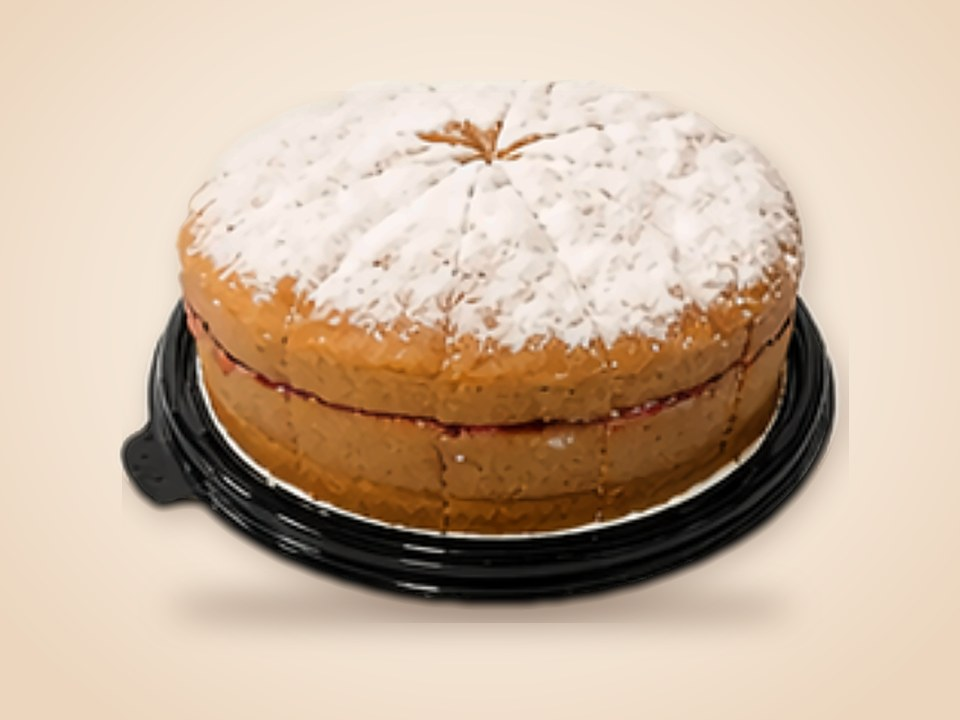
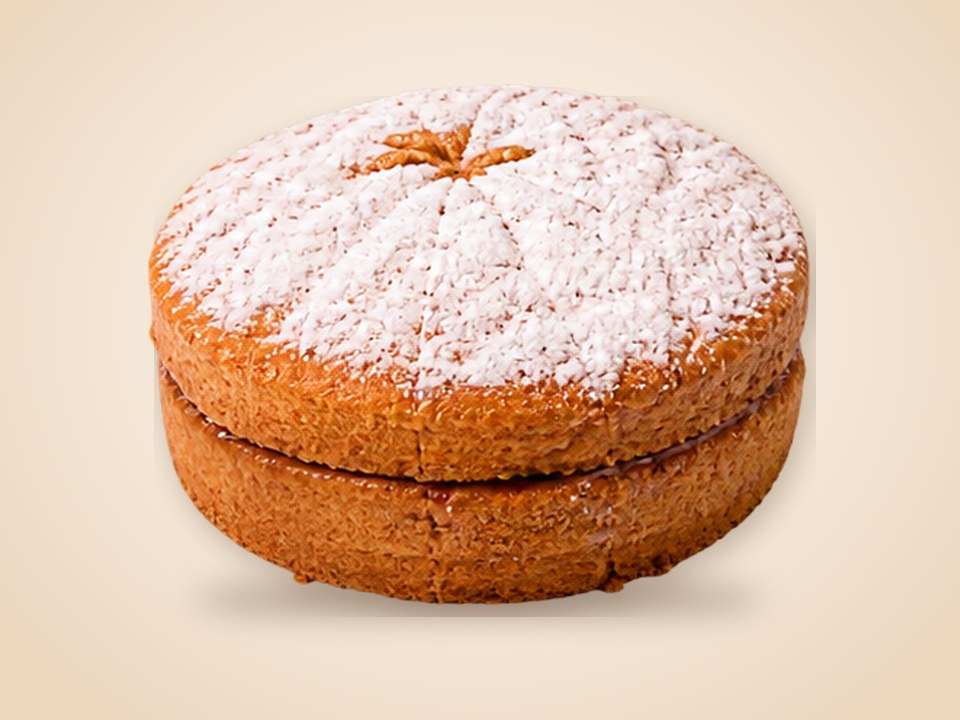
Restaura fotos de Tortas mini; nuevas fotos en Tortas especiales
Claude-Session: https://claude.ai/code/session_01CXgPpzeanZSn7nNy7uupPz

diff --git a/index.html b/index.html
@@ -110,7 +110,7 @@ a{color:#9A4A0E}a:hover{color:#3A2216}
 <button type="button" aria-label="Ver siguientes" data-act="next" class="bj-arrow" style="width: 56px; height: 56px; border-radius: 999px; border: 2px solid #3A2216; background: #3A2216; color: #F5E6D3; display: flex; align-items: center; justify-content: center; cursor: pointer"><svg aria-hidden="true" width="22" height="22" viewBox="0 0 24 24" fill="none" stroke="currentColor" stroke-width="2.4" stroke-linecap="round" stroke-linejoin="round"><path d="M9 6l6 6-6 6"></path></svg></button>
 </div>
 </div>
-<div data-track="1" class="bj-track" style="display: flex; gap: 20px; overflow-x: auto; scroll-snap-type: x mandatory; scroll-padding: 0; box-sizing: content-box; max-width: 2080px; margin: 0 auto; padding: 36px clamp(20px, 4vw, 56px) 8px; scroll-padding-left: clamp(20px, 4vw, 56px)"><article class="bj-card" tabindex="0" style="flex: 0 0 clamp(250px, 16vw, 340px); scroll-snap-align: start; box-sizing: border-box; padding: 12px 12px 18px; border-radius: 24px; background: #FFF8EF; border: 1.5px solid #E3C9AC; display: flex; flex-direction: column; gap: 12px"><img class="bj-cardcat" src="assets/catface.png" alt="" aria-hidden="true"><img src="assets/esp-amapola.jpg" alt="Torta de Amapola" style="display: block; width: 100%; aspect-ratio: 4 / 3; object-fit: cover; border-radius: 16px; background: #F3E2CF"><div style="display: flex; flex-direction: column; gap: 8px; padding: 0 6px"><h3 style="margin: 0; font-family: Fredoka, sans-serif; font-weight: 600; font-size: 20px; line-height: 1.15; color: #3A2216">Torta de Amapola</h3><div style="display: flex; flex-wrap: wrap; gap: 6px"><span style="display: inline-block; padding: 5px 12px; border-radius: 999px; border: 1.5px solid #E8701A; color: #9A4A0E; font-size: 13px; font-weight: 700">14 porciones</span></div></div></article><article class="bj-card" tabindex="0" style="flex: 0 0 clamp(250px, 16vw, 340px); scroll-snap-align: start; box-sizing: border-box; padding: 12px 12px 18px; border-radius: 24px; background: #FFF8EF; border: 1.5px solid #E3C9AC; display: flex; flex-direction: column; gap: 12px"><img class="bj-cardcat" src="assets/catface.png" alt="" aria-hidden="true"><img src="assets/esp-arandanos.jpg" alt="Torta de Arándanos" style="display: block; width: 100%; aspect-ratio: 4 / 3; object-fit: cover; border-radius: 16px; background: #F3E2CF"><div style="display: flex; flex-direction: column; gap: 8px; padding: 0 6px"><h3 style="margin: 0; font-family: Fredoka, sans-serif; font-weight: 600; font-size: 20px; line-height: 1.15; color: #3A2216">Torta de Arándanos</h3><div style="display: flex; flex-wrap: wrap; gap: 6px"><span style="display: inline-block; padding: 5px 12px; border-radius: 999px; border: 1.5px solid #E8701A; color: #9A4A0E; font-size: 13px; font-weight: 700">14 porciones</span></div></div></article><article class="bj-card" tabindex="0" style="flex: 0 0 clamp(250px, 16vw, 340px); scroll-snap-align: start; box-sizing: border-box; padding: 12px 12px 18px; border-radius: 24px; background: #FFF8EF; border: 1.5px solid #E3C9AC; display: flex; flex-direction: column; gap: 12px"><img class="bj-cardcat" src="assets/catface.png" alt="" aria-hidden="true"><img src="assets/esp-marialuisa.jpg" alt="Torta María Luisa" style="display: block; width: 100%; aspect-ratio: 4 / 3; object-fit: cover; border-radius: 16px; background: #F3E2CF"><div style="display: flex; flex-direction: column; gap: 8px; padding: 0 6px"><h3 style="margin: 0; font-family: Fredoka, sans-serif; font-weight: 600; font-size: 20px; line-height: 1.15; color: #3A2216">Torta María Luisa</h3><div style="display: flex; flex-wrap: wrap; gap: 6px"><span style="display: inline-block; padding: 5px 12px; border-radius: 999px; border: 1.5px solid #E8701A; color: #9A4A0E; font-size: 13px; font-weight: 700">14 porciones</span></div></div></article><article class="bj-card" tabindex="0" style="flex: 0 0 clamp(250px, 16vw, 340px); scroll-snap-align: start; box-sizing: border-box; padding: 12px 12px 18px; border-radius: 24px; background: #FFF8EF; border: 1.5px solid #E3C9AC; display: flex; flex-direction: column; gap: 12px"><img class="bj-cardcat" src="assets/catface.png" alt="" aria-hidden="true"><img src="assets/esp-chocolate.jpg" alt="Torta de Chocolate" style="display: block; width: 100%; aspect-ratio: 4 / 3; object-fit: cover; border-radius: 16px; background: #F3E2CF"><div style="display: flex; flex-direction: column; gap: 8px; padding: 0 6px"><h3 style="margin: 0; font-family: Fredoka, sans-serif; font-weight: 600; font-size: 20px; line-height: 1.15; color: #3A2216">Torta de Chocolate</h3><div style="display: flex; flex-wrap: wrap; gap: 6px"><span style="display: inline-block; padding: 5px 12px; border-radius: 999px; border: 1.5px solid #E8701A; color: #9A4A0E; font-size: 13px; font-weight: 700">14 porciones</span></div></div></article><article class="bj-card" tabindex="0" style="flex: 0 0 clamp(250px, 16vw, 340px); scroll-snap-align: start; box-sizing: border-box; padding: 12px 12px 18px; border-radius: 24px; background: #FFF8EF; border: 1.5px solid #E3C9AC; display: flex; flex-direction: column; gap: 12px"><img class="bj-cardcat" src="assets/catface.png" alt="" aria-hidden="true"><img src="assets/esp-redvelvet.jpg" alt="Torta Red Velvet" style="display: block; width: 100%; aspect-ratio: 4 / 3; object-fit: cover; border-radius: 16px; background: #F3E2CF"><div style="display: flex; flex-direction: column; gap: 8px; padding: 0 6px"><h3 style="margin: 0; font-family: Fredoka, sans-serif; font-weight: 600; font-size: 20px; line-height: 1.15; color: #3A2216">Torta Red Velvet</h3><div style="display: flex; flex-wrap: wrap; gap: 6px"><span style="display: inline-block; padding: 5px 12px; border-radius: 999px; border: 1.5px solid #E8701A; color: #9A4A0E; font-size: 13px; font-weight: 700">14 porciones</span></div></div></article><article class="bj-card" tabindex="0" style="flex: 0 0 clamp(250px, 16vw, 340px); scroll-snap-align: start; box-sizing: border-box; padding: 12px 12px 18px; border-radius: 24px; background: #FFF8EF; border: 1.5px solid #E3C9AC; display: flex; flex-direction: column; gap: 12px"><img class="bj-cardcat" src="assets/catface.png" alt="" aria-hidden="true"><img src="assets/esp-zanahoria.jpg" alt="Torta de Zanahoria, almendra y nuez" style="display: block; width: 100%; aspect-ratio: 4 / 3; object-fit: cover; border-radius: 16px; background: #F3E2CF"><div style="display: flex; flex-direction: column; gap: 8px; padding: 0 6px"><h3 style="margin: 0; font-family: Fredoka, sans-serif; font-weight: 600; font-size: 20px; line-height: 1.15; color: #3A2216">Torta de Zanahoria, almendra y nuez</h3><div style="display: flex; flex-wrap: wrap; gap: 6px"><span style="display: inline-block; padding: 5px 12px; border-radius: 999px; border: 1.5px solid #E8701A; color: #9A4A0E; font-size: 13px; font-weight: 700">14 porciones</span></div></div></article><article class="bj-card" tabindex="0" style="flex: 0 0 clamp(250px, 16vw, 340px); scroll-snap-align: start; box-sizing: border-box; padding: 12px 12px 18px; border-radius: 24px; background: #FFF8EF; border: 1.5px solid #E3C9AC; display: flex; flex-direction: column; gap: 12px"><img class="bj-cardcat" src="assets/catface.png" alt="" aria-hidden="true"><img src="assets/esp-espinaca.jpg" alt="Torta de Espinaca" style="display: block; width: 100%; aspect-ratio: 4 / 3; object-fit: cover; border-radius: 16px; background: #F3E2CF"><div style="display: flex; flex-direction: column; gap: 8px; padding: 0 6px"><h3 style="margin: 0; font-family: Fredoka, sans-serif; font-weight: 600; font-size: 20px; line-height: 1.15; color: #3A2216">Torta de Espinaca</h3><div style="display: flex; flex-wrap: wrap; gap: 6px"><span style="display: inline-block; padding: 5px 12px; border-radius: 999px; border: 1.5px solid #E8701A; color: #9A4A0E; font-size: 13px; font-weight: 700">14 porciones</span></div></div></article><article class="bj-card" tabindex="0" style="flex: 0 0 clamp(250px, 16vw, 340px); scroll-snap-align: start; box-sizing: border-box; padding: 12px 12px 18px; border-radius: 24px; background: #FFF8EF; border: 1.5px solid #E3C9AC; display: flex; flex-direction: column; gap: 12px"><img class="bj-cardcat" src="assets/catface.png" alt="" aria-hidden="true"><img src="assets/esp-avena.jpg" alt="Torta de Avena con Banano" style="display: block; width: 100%; aspect-ratio: 4 / 3; object-fit: cover; border-radius: 16px; background: #F3E2CF"><div style="display: flex; flex-direction: column; gap: 8px; padding: 0 6px"><h3 style="margin: 0; font-family: Fredoka, sans-serif; font-weight: 600; font-size: 20px; line-height: 1.15; color: #3A2216">Torta de Avena con Banano</h3><div style="display: flex; flex-wrap: wrap; gap: 6px"><span style="display: inline-block; padding: 5px 12px; border-radius: 999px; border: 1.5px solid #E8701A; color: #9A4A0E; font-size: 13px; font-weight: 700">14 porciones</span></div></div></article><article class="bj-card" tabindex="0" style="flex: 0 0 clamp(250px, 16vw, 340px); scroll-snap-align: start; box-sizing: border-box; padding: 12px 12px 18px; border-radius: 24px; background: #FFF8EF; border: 1.5px solid #E3C9AC; display: flex; flex-direction: column; gap: 12px"><img class="bj-cardcat" src="assets/catface.png" alt="" aria-hidden="true"><img src="assets/esp-vino.jpg" alt="Torta de Vino con Frutas" style="display: block; width: 100%; aspect-ratio: 4 / 3; object-fit: cover; border-radius: 16px; background: #F3E2CF"><div style="display: flex; flex-direction: column; gap: 8px; padding: 0 6px"><h3 style="margin: 0; font-family: Fredoka, sans-serif; font-weight: 600; font-size: 20px; line-height: 1.15; color: #3A2216">Torta de Vino con Frutas</h3></div></article><article class="bj-card" tabindex="0" style="flex: 0 0 clamp(250px, 16vw, 340px); scroll-snap-align: start; box-sizing: border-box; padding: 12px 12px 18px; border-radius: 24px; background: #FFF8EF; border: 1.5px solid #E3C9AC; display: flex; flex-direction: column; gap: 12px"><img class="bj-cardcat" src="assets/catface.png" alt="" aria-hidden="true"><img src="assets/esp-almojabana.jpg" alt="Torta de Almojábana y Bocadillo" style="display: block; width: 100%; aspect-ratio: 4 / 3; object-fit: cover; border-radius: 16px; background: #F3E2CF"><div style="display: flex; flex-direction: column; gap: 8px; padding: 0 6px"><h3 style="margin: 0; font-family: Fredoka, sans-serif; font-weight: 600; font-size: 20px; line-height: 1.15; color: #3A2216">Torta de Almojábana y Bocadillo</h3><div style="display: flex; flex-wrap: wrap; gap: 6px"><span style="display: inline-block; padding: 5px 12px; border-radius: 999px; border: 1.5px solid #E8701A; color: #9A4A0E; font-size: 13px; font-weight: 700">12 porciones</span></div></div></article><article class="bj-card" tabindex="0" style="flex: 0 0 clamp(250px, 16vw, 340px); scroll-snap-align: start; box-sizing: border-box; padding: 12px 12px 18px; border-radius: 24px; background: #FFF8EF; border: 1.5px solid #E3C9AC; display: flex; flex-direction: column; gap: 12px"><img class="bj-cardcat" src="assets/catface.png" alt="" aria-hidden="true"><img src="assets/pie-pina.jpg" alt="Pie de Piña" style="display: block; width: 100%; aspect-ratio: 4 / 3; object-fit: cover; border-radius: 16px; background: #F3E2CF"><div style="display: flex; flex-direction: column; gap: 8px; padding: 0 6px"><h3 style="margin: 0; font-family: Fredoka, sans-serif; font-weight: 600; font-size: 20px; line-height: 1.15; color: #3A2216">Pie de Piña</h3><div style="display: flex; flex-wrap: wrap; gap: 6px"><span style="display: inline-block; padding: 5px 12px; border-radius: 999px; border: 1.5px solid #E8701A; color: #9A4A0E; font-size: 13px; font-weight: 700">12 porciones</span></div></div></article><article class="bj-card" tabindex="0" style="flex: 0 0 clamp(250px, 16vw, 340px); scroll-snap-align: start; box-sizing: border-box; padding: 12px 12px 18px; border-radius: 24px; background: #FFF8EF; border: 1.5px solid #E3C9AC; display: flex; flex-direction: column; gap: 12px"><img class="bj-cardcat" src="assets/catface.png" alt="" aria-hidden="true"><img src="assets/pie-durazno.jpg" alt="Pie de Durazno" style="display: block; width: 100%; aspect-ratio: 4 / 3; object-fit: cover; border-radius: 16px; background: #F3E2CF"><div style="display: flex; flex-direction: column; gap: 8px; padding: 0 6px"><h3 style="margin: 0; font-family: Fredoka, sans-serif; font-weight: 600; font-size: 20px; line-height: 1.15; color: #3A2216">Pie de Durazno</h3><div style="display: flex; flex-wrap: wrap; gap: 6px"><span style="display: inline-block; padding: 5px 12px; border-radius: 999px; border: 1.5px solid #E8701A; color: #9A4A0E; font-size: 13px; font-weight: 700">12 porciones</span></div></div></article><article class="bj-card" tabindex="0" style="flex: 0 0 clamp(250px, 16vw, 340px); scroll-snap-align: start; box-sizing: border-box; padding: 12px 12px 18px; border-radius: 24px; background: #FFF8EF; border: 1.5px solid #E3C9AC; display: flex; flex-direction: column; gap: 12px"><img class="bj-cardcat" src="assets/catface.png" alt="" aria-hidden="true"><img src="assets/esp-pistacho.jpg" alt="Torta especial de Pistacho" style="display: block; width: 100%; aspect-ratio: 4 / 3; object-fit: cover; border-radius: 16px; background: #F3E2CF"><div style="display: flex; flex-direction: column; gap: 8px; padding: 0 6px"><h3 style="margin: 0; font-family: Fredoka, sans-serif; font-weight: 600; font-size: 20px; line-height: 1.15; color: #3A2216">Torta especial de Pistacho</h3></div></article><article class="bj-card" tabindex="0" style="flex: 0 0 clamp(250px, 16vw, 340px); scroll-snap-align: start; box-sizing: border-box; padding: 12px 12px 18px; border-radius: 24px; background: #FFF8EF; border: 1.5px solid #E3C9AC; display: flex; flex-direction: column; gap: 12px"><img class="bj-cardcat" src="assets/catface.png" alt="" aria-hidden="true"><img src="assets/esp-chocolate-especial.jpg" alt="Torta especial de Chocolate" style="display: block; width: 100%; aspect-ratio: 4 / 3; object-fit: cover; border-radius: 16px; background: #F3E2CF"><div style="display: flex; flex-direction: column; gap: 8px; padding: 0 6px"><h3 style="margin: 0; font-family: Fredoka, sans-serif; font-weight: 600; font-size: 20px; line-height: 1.15; color: #3A2216">Torta especial de Chocolate</h3></div></article><article class="bj-card" tabindex="0" style="flex: 0 0 clamp(250px, 16vw, 340px); scroll-snap-align: start; box-sizing: border-box; padding: 12px 12px 18px; border-radius: 24px; background: #FFF8EF; border: 1.5px solid #E3C9AC; display: flex; flex-direction: column; gap: 12px"><img class="bj-cardcat" src="assets/catface.png" alt="" aria-hidden="true"><img src="assets/choco-maracuya.jpg" alt="Torta especial de Chocolate con postre de Maracuyá" style="display: block; width: 100%; aspect-ratio: 4 / 3; object-fit: cover; border-radius: 16px; background: #F3E2CF"><div style="display: flex; flex-direction: column; gap: 8px; padding: 0 6px"><h3 style="margin: 0; font-family: Fredoka, sans-serif; font-weight: 600; font-size: 20px; line-height: 1.15; color: #3A2216">Torta especial de Chocolate con postre de Maracuyá</h3></div></article><article class="bj-card" tabindex="0" style="flex: 0 0 clamp(250px, 16vw, 340px); scroll-snap-align: start; box-sizing: border-box; padding: 12px 12px 18px; border-radius: 24px; background: #FFF8EF; border: 1.5px solid #E3C9AC; display: flex; flex-direction: column; gap: 12px"><img class="bj-cardcat" src="assets/catface.png" alt="" aria-hidden="true"><img src="assets/choco-frutos.jpg" alt="Torta especial de Chocolate con postre de Frutos rojos" style="display: block; width: 100%; aspect-ratio: 4 / 3; object-fit: cover; border-radius: 16px; background: #F3E2CF"><div style="display: flex; flex-direction: column; gap: 8px; padding: 0 6px"><h3 style="margin: 0; font-family: Fredoka, sans-serif; font-weight: 600; font-size: 20px; line-height: 1.15; color: #3A2216">Torta especial de Chocolate con postre de Frutos rojos</h3></div></article><article class="bj-card" tabindex="0" style="flex: 0 0 clamp(250px, 16vw, 340px); scroll-snap-align: start; box-sizing: border-box; padding: 12px 12px 18px; border-radius: 24px; background: #FFF8EF; border: 1.5px solid #E3C9AC; display: flex; flex-direction: column; gap: 12px"><img class="bj-cardcat" src="assets/catface.png" alt="" aria-hidden="true"><div style="width: 100%; aspect-ratio: 4 / 3; border-radius: 16px; background: repeating-linear-gradient(90deg, #F6E7D4 0 18px, #EFD9BF 18px 36px); display: flex; flex-direction: column; align-items: center; justify-content: center; gap: 8px"><img src="assets/logo.png" alt="" style="width: 92px; opacity: 0.55"><span style="font-size: 13px; font-weight: 700; color: #6B4430; letter-spacing: 0.04em; text-transform: uppercase">Foto próximamente</span></div><div style="display: flex; flex-direction: column; gap: 8px; padding: 0 6px"><h3 style="margin: 0; font-family: Fredoka, sans-serif; font-weight: 600; font-size: 20px; line-height: 1.15; color: #3A2216">Torta especial de Café</h3></div></article></div>
+<div data-track="1" class="bj-track" style="display: flex; gap: 20px; overflow-x: auto; scroll-snap-type: x mandatory; scroll-padding: 0; box-sizing: content-box; max-width: 2080px; margin: 0 auto; padding: 36px clamp(20px, 4vw, 56px) 8px; scroll-padding-left: clamp(20px, 4vw, 56px)"><article class="bj-card" tabindex="0" style="flex: 0 0 clamp(250px, 16vw, 340px); scroll-snap-align: start; box-sizing: border-box; padding: 12px 12px 18px; border-radius: 24px; background: #FFF8EF; border: 1.5px solid #E3C9AC; display: flex; flex-direction: column; gap: 12px"><img class="bj-cardcat" src="assets/catface.png" alt="" aria-hidden="true"><img src="assets/esp-amapola.jpg" alt="Torta de Amapola" style="display: block; width: 100%; aspect-ratio: 4 / 3; object-fit: cover; border-radius: 16px; background: #F3E2CF"><div style="display: flex; flex-direction: column; gap: 8px; padding: 0 6px"><h3 style="margin: 0; font-family: Fredoka, sans-serif; font-weight: 600; font-size: 20px; line-height: 1.15; color: #3A2216">Torta de Amapola</h3><div style="display: flex; flex-wrap: wrap; gap: 6px"><span style="display: inline-block; padding: 5px 12px; border-radius: 999px; border: 1.5px solid #E8701A; color: #9A4A0E; font-size: 13px; font-weight: 700">14 porciones</span></div></div></article><article class="bj-card" tabindex="0" style="flex: 0 0 clamp(250px, 16vw, 340px); scroll-snap-align: start; box-sizing: border-box; padding: 12px 12px 18px; border-radius: 24px; background: #FFF8EF; border: 1.5px solid #E3C9AC; display: flex; flex-direction: column; gap: 12px"><img class="bj-cardcat" src="assets/catface.png" alt="" aria-hidden="true"><img src="assets/esp-arandanos.jpg" alt="Torta de Arándanos" style="display: block; width: 100%; aspect-ratio: 4 / 3; object-fit: cover; border-radius: 16px; background: #F3E2CF"><div style="display: flex; flex-direction: column; gap: 8px; padding: 0 6px"><h3 style="margin: 0; font-family: Fredoka, sans-serif; font-weight: 600; font-size: 20px; line-height: 1.15; color: #3A2216">Torta de Arándanos</h3><div style="display: flex; flex-wrap: wrap; gap: 6px"><span style="display: inline-block; padding: 5px 12px; border-radius: 999px; border: 1.5px solid #E8701A; color: #9A4A0E; font-size: 13px; font-weight: 700">14 porciones</span></div></div></article><article class="bj-card" tabindex="0" style="flex: 0 0 clamp(250px, 16vw, 340px); scroll-snap-align: start; box-sizing: border-box; padding: 12px 12px 18px; border-radius: 24px; background: #FFF8EF; border: 1.5px solid #E3C9AC; display: flex; flex-direction: column; gap: 12px"><img class="bj-cardcat" src="assets/catface.png" alt="" aria-hidden="true"><img src="assets/esp-marialuisa.jpg" alt="Torta María Luisa" style="display: block; width: 100%; aspect-ratio: 4 / 3; object-fit: cover; border-radius: 16px; background: #F3E2CF"><div style="display: flex; flex-direction: column; gap: 8px; padding: 0 6px"><h3 style="margin: 0; font-family: Fredoka, sans-serif; font-weight: 600; font-size: 20px; line-height: 1.15; color: #3A2216">Torta María Luisa</h3><div style="display: flex; flex-wrap: wrap; gap: 6px"><span style="display: inline-block; padding: 5px 12px; border-radius: 999px; border: 1.5px solid #E8701A; color: #9A4A0E; font-size: 13px; font-weight: 700">14 porciones</span></div></div></article><article class="bj-card" tabindex="0" style="flex: 0 0 clamp(250px, 16vw, 340px); scroll-snap-align: start; box-sizing: border-box; padding: 12px 12px 18px; border-radius: 24px; background: #FFF8EF; border: 1.5px solid #E3C9AC; display: flex; flex-direction: column; gap: 12px"><img class="bj-cardcat" src="assets/catface.png" alt="" aria-hidden="true"><img src="assets/esp-chocolate-t.jpg" alt="Torta de Chocolate" style="display: block; width: 100%; aspect-ratio: 4 / 3; object-fit: cover; border-radius: 16px; background: #F3E2CF"><div style="display: flex; flex-direction: column; gap: 8px; padding: 0 6px"><h3 style="margin: 0; font-family: Fredoka, sans-serif; font-weight: 600; font-size: 20px; line-height: 1.15; color: #3A2216">Torta de Chocolate</h3><div style="display: flex; flex-wrap: wrap; gap: 6px"><span style="display: inline-block; padding: 5px 12px; border-radius: 999px; border: 1.5px solid #E8701A; color: #9A4A0E; font-size: 13px; font-weight: 700">14 porciones</span></div></div></article><article class="bj-card" tabindex="0" style="flex: 0 0 clamp(250px, 16vw, 340px); scroll-snap-align: start; box-sizing: border-box; padding: 12px 12px 18px; border-radius: 24px; background: #FFF8EF; border: 1.5px solid #E3C9AC; display: flex; flex-direction: column; gap: 12px"><img class="bj-cardcat" src="assets/catface.png" alt="" aria-hidden="true"><img src="assets/esp-redvelvet.jpg" alt="Torta Red Velvet" style="display: block; width: 100%; aspect-ratio: 4 / 3; object-fit: cover; border-radius: 16px; background: #F3E2CF"><div style="display: flex; flex-direction: column; gap: 8px; padding: 0 6px"><h3 style="margin: 0; font-family: Fredoka, sans-serif; font-weight: 600; font-size: 20px; line-height: 1.15; color: #3A2216">Torta Red Velvet</h3><div style="display: flex; flex-wrap: wrap; gap: 6px"><span style="display: inline-block; padding: 5px 12px; border-radius: 999px; border: 1.5px solid #E8701A; color: #9A4A0E; font-size: 13px; font-weight: 700">14 porciones</span></div></div></article><article class="bj-card" tabindex="0" style="flex: 0 0 clamp(250px, 16vw, 340px); scroll-snap-align: start; box-sizing: border-box; padding: 12px 12px 18px; border-radius: 24px; background: #FFF8EF; border: 1.5px solid #E3C9AC; display: flex; flex-direction: column; gap: 12px"><img class="bj-cardcat" src="assets/catface.png" alt="" aria-hidden="true"><img src="assets/esp-zanahoria.jpg" alt="Torta de Zanahoria, almendra y nuez" style="display: block; width: 100%; aspect-ratio: 4 / 3; object-fit: cover; border-radius: 16px; background: #F3E2CF"><div style="display: flex; flex-direction: column; gap: 8px; padding: 0 6px"><h3 style="margin: 0; font-family: Fredoka, sans-serif; font-weight: 600; font-size: 20px; line-height: 1.15; color: #3A2216">Torta de Zanahoria, almendra y nuez</h3><div style="display: flex; flex-wrap: wrap; gap: 6px"><span style="display: inline-block; padding: 5px 12px; border-radius: 999px; border: 1.5px solid #E8701A; color: #9A4A0E; font-size: 13px; font-weight: 700">14 porciones</span></div></div></article><article class="bj-card" tabindex="0" style="flex: 0 0 clamp(250px, 16vw, 340px); scroll-snap-align: start; box-sizing: border-box; padding: 12px 12px 18px; border-radius: 24px; background: #FFF8EF; border: 1.5px solid #E3C9AC; display: flex; flex-direction: column; gap: 12px"><img class="bj-cardcat" src="assets/catface.png" alt="" aria-hidden="true"><img src="assets/esp-espinaca.jpg" alt="Torta de Espinaca" style="display: block; width: 100%; aspect-ratio: 4 / 3; object-fit: cover; border-radius: 16px; background: #F3E2CF"><div style="display: flex; flex-direction: column; gap: 8px; padding: 0 6px"><h3 style="margin: 0; font-family: Fredoka, sans-serif; font-weight: 600; font-size: 20px; line-height: 1.15; color: #3A2216">Torta de Espinaca</h3><div style="display: flex; flex-wrap: wrap; gap: 6px"><span style="display: inline-block; padding: 5px 12px; border-radius: 999px; border: 1.5px solid #E8701A; color: #9A4A0E; font-size: 13px; font-weight: 700">14 porciones</span></div></div></article><article class="bj-card" tabindex="0" style="flex: 0 0 clamp(250px, 16vw, 340px); scroll-snap-align: start; box-sizing: border-box; padding: 12px 12px 18px; border-radius: 24px; background: #FFF8EF; border: 1.5px solid #E3C9AC; display: flex; flex-direction: column; gap: 12px"><img class="bj-cardcat" src="assets/catface.png" alt="" aria-hidden="true"><img src="assets/esp-avena.jpg" alt="Torta de Avena con Banano" style="display: block; width: 100%; aspect-ratio: 4 / 3; object-fit: cover; border-radius: 16px; background: #F3E2CF"><div style="display: flex; flex-direction: column; gap: 8px; padding: 0 6px"><h3 style="margin: 0; font-family: Fredoka, sans-serif; font-weight: 600; font-size: 20px; line-height: 1.15; color: #3A2216">Torta de Avena con Banano</h3><div style="display: flex; flex-wrap: wrap; gap: 6px"><span style="display: inline-block; padding: 5px 12px; border-radius: 999px; border: 1.5px solid #E8701A; color: #9A4A0E; font-size: 13px; font-weight: 700">14 porciones</span></div></div></article><article class="bj-card" tabindex="0" style="flex: 0 0 clamp(250px, 16vw, 340px); scroll-snap-align: start; box-sizing: border-box; padding: 12px 12px 18px; border-radius: 24px; background: #FFF8EF; border: 1.5px solid #E3C9AC; display: flex; flex-direction: column; gap: 12px"><img class="bj-cardcat" src="assets/catface.png" alt="" aria-hidden="true"><img src="assets/esp-vino.jpg" alt="Torta de Vino con Frutas" style="display: block; width: 100%; aspect-ratio: 4 / 3; object-fit: cover; border-radius: 16px; background: #F3E2CF"><div style="display: flex; flex-direction: column; gap: 8px; padding: 0 6px"><h3 style="margin: 0; font-family: Fredoka, sans-serif; font-weight: 600; font-size: 20px; line-height: 1.15; color: #3A2216">Torta de Vino con Frutas</h3></div></article><article class="bj-card" tabindex="0" style="flex: 0 0 clamp(250px, 16vw, 340px); scroll-snap-align: start; box-sizing: border-box; padding: 12px 12px 18px; border-radius: 24px; background: #FFF8EF; border: 1.5px solid #E3C9AC; display: flex; flex-direction: column; gap: 12px"><img class="bj-cardcat" src="assets/catface.png" alt="" aria-hidden="true"><img src="assets/esp-almojabana.jpg" alt="Torta de Almojábana y Bocadillo" style="display: block; width: 100%; aspect-ratio: 4 / 3; object-fit: cover; border-radius: 16px; background: #F3E2CF"><div style="display: flex; flex-direction: column; gap: 8px; padding: 0 6px"><h3 style="margin: 0; font-family: Fredoka, sans-serif; font-weight: 600; font-size: 20px; line-height: 1.15; color: #3A2216">Torta de Almojábana y Bocadillo</h3><div style="display: flex; flex-wrap: wrap; gap: 6px"><span style="display: inline-block; padding: 5px 12px; border-radius: 999px; border: 1.5px solid #E8701A; color: #9A4A0E; font-size: 13px; font-weight: 700">12 porciones</span></div></div></article><article class="bj-card" tabindex="0" style="flex: 0 0 clamp(250px, 16vw, 340px); scroll-snap-align: start; box-sizing: border-box; padding: 12px 12px 18px; border-radius: 24px; background: #FFF8EF; border: 1.5px solid #E3C9AC; display: flex; flex-direction: column; gap: 12px"><img class="bj-cardcat" src="assets/catface.png" alt="" aria-hidden="true"><img src="assets/pie-pina.jpg" alt="Pie de Piña" style="display: block; width: 100%; aspect-ratio: 4 / 3; object-fit: cover; border-radius: 16px; background: #F3E2CF"><div style="display: flex; flex-direction: column; gap: 8px; padding: 0 6px"><h3 style="margin: 0; font-family: Fredoka, sans-serif; font-weight: 600; font-size: 20px; line-height: 1.15; color: #3A2216">Pie de Piña</h3><div style="display: flex; flex-wrap: wrap; gap: 6px"><span style="display: inline-block; padding: 5px 12px; border-radius: 999px; border: 1.5px solid #E8701A; color: #9A4A0E; font-size: 13px; font-weight: 700">12 porciones</span></div></div></article><article class="bj-card" tabindex="0" style="flex: 0 0 clamp(250px, 16vw, 340px); scroll-snap-align: start; box-sizing: border-box; padding: 12px 12px 18px; border-radius: 24px; background: #FFF8EF; border: 1.5px solid #E3C9AC; display: flex; flex-direction: column; gap: 12px"><img class="bj-cardcat" src="assets/catface.png" alt="" aria-hidden="true"><img src="assets/pie-durazno.jpg" alt="Pie de Durazno" style="display: block; width: 100%; aspect-ratio: 4 / 3; object-fit: cover; border-radius: 16px; background: #F3E2CF"><div style="display: flex; flex-direction: column; gap: 8px; padding: 0 6px"><h3 style="margin: 0; font-family: Fredoka, sans-serif; font-weight: 600; font-size: 20px; line-height: 1.15; color: #3A2216">Pie de Durazno</h3><div style="display: flex; flex-wrap: wrap; gap: 6px"><span style="display: inline-block; padding: 5px 12px; border-radius: 999px; border: 1.5px solid #E8701A; color: #9A4A0E; font-size: 13px; font-weight: 700">12 porciones</span></div></div></article><article class="bj-card" tabindex="0" style="flex: 0 0 clamp(250px, 16vw, 340px); scroll-snap-align: start; box-sizing: border-box; padding: 12px 12px 18px; border-radius: 24px; background: #FFF8EF; border: 1.5px solid #E3C9AC; display: flex; flex-direction: column; gap: 12px"><img class="bj-cardcat" src="assets/catface.png" alt="" aria-hidden="true"><img src="assets/esp-pistacho.jpg" alt="Torta especial de Pistacho" style="display: block; width: 100%; aspect-ratio: 4 / 3; object-fit: cover; border-radius: 16px; background: #F3E2CF"><div style="display: flex; flex-direction: column; gap: 8px; padding: 0 6px"><h3 style="margin: 0; font-family: Fredoka, sans-serif; font-weight: 600; font-size: 20px; line-height: 1.15; color: #3A2216">Torta especial de Pistacho</h3></div></article><article class="bj-card" tabindex="0" style="flex: 0 0 clamp(250px, 16vw, 340px); scroll-snap-align: start; box-sizing: border-box; padding: 12px 12px 18px; border-radius: 24px; background: #FFF8EF; border: 1.5px solid #E3C9AC; display: flex; flex-direction: column; gap: 12px"><img class="bj-cardcat" src="assets/catface.png" alt="" aria-hidden="true"><img src="assets/esp-chocolate-especial.jpg" alt="Torta especial de Chocolate" style="display: block; width: 100%; aspect-ratio: 4 / 3; object-fit: cover; border-radius: 16px; background: #F3E2CF"><div style="display: flex; flex-direction: column; gap: 8px; padding: 0 6px"><h3 style="margin: 0; font-family: Fredoka, sans-serif; font-weight: 600; font-size: 20px; line-height: 1.15; color: #3A2216">Torta especial de Chocolate</h3></div></article><article class="bj-card" tabindex="0" style="flex: 0 0 clamp(250px, 16vw, 340px); scroll-snap-align: start; box-sizing: border-box; padding: 12px 12px 18px; border-radius: 24px; background: #FFF8EF; border: 1.5px solid #E3C9AC; display: flex; flex-direction: column; gap: 12px"><img class="bj-cardcat" src="assets/catface.png" alt="" aria-hidden="true"><img src="assets/choco-maracuya.jpg" alt="Torta especial de Chocolate con postre de Maracuyá" style="display: block; width: 100%; aspect-ratio: 4 / 3; object-fit: cover; border-radius: 16px; background: #F3E2CF"><div style="display: flex; flex-direction: column; gap: 8px; padding: 0 6px"><h3 style="margin: 0; font-family: Fredoka, sans-serif; font-weight: 600; font-size: 20px; line-height: 1.15; color: #3A2216">Torta especial de Chocolate con postre de Maracuyá</h3></div></article><article class="bj-card" tabindex="0" style="flex: 0 0 clamp(250px, 16vw, 340px); scroll-snap-align: start; box-sizing: border-box; padding: 12px 12px 18px; border-radius: 24px; background: #FFF8EF; border: 1.5px solid #E3C9AC; display: flex; flex-direction: column; gap: 12px"><img class="bj-cardcat" src="assets/catface.png" alt="" aria-hidden="true"><img src="assets/choco-frutos.jpg" alt="Torta especial de Chocolate con postre de Frutos rojos" style="display: block; width: 100%; aspect-ratio: 4 / 3; object-fit: cover; border-radius: 16px; background: #F3E2CF"><div style="display: flex; flex-direction: column; gap: 8px; padding: 0 6px"><h3 style="margin: 0; font-family: Fredoka, sans-serif; font-weight: 600; font-size: 20px; line-height: 1.15; color: #3A2216">Torta especial de Chocolate con postre de Frutos rojos</h3></div></article><article class="bj-card" tabindex="0" style="flex: 0 0 clamp(250px, 16vw, 340px); scroll-snap-align: start; box-sizing: border-box; padding: 12px 12px 18px; border-radius: 24px; background: #FFF8EF; border: 1.5px solid #E3C9AC; display: flex; flex-direction: column; gap: 12px"><img class="bj-cardcat" src="assets/catface.png" alt="" aria-hidden="true"><div style="width: 100%; aspect-ratio: 4 / 3; border-radius: 16px; background: repeating-linear-gradient(90deg, #F6E7D4 0 18px, #EFD9BF 18px 36px); display: flex; flex-direction: column; align-items: center; justify-content: center; gap: 8px"><img src="assets/logo.png" alt="" style="width: 92px; opacity: 0.55"><span style="font-size: 13px; font-weight: 700; color: #6B4430; letter-spacing: 0.04em; text-transform: uppercase">Foto próximamente</span></div><div style="display: flex; flex-direction: column; gap: 8px; padding: 0 6px"><h3 style="margin: 0; font-family: Fredoka, sans-serif; font-weight: 600; font-size: 20px; line-height: 1.15; color: #3A2216">Torta especial de Café</h3></div></article></div>
 </section><section id="corazones" data-row="1" style="background: #3A2216; padding: 72px 0 80px">
 <div style="max-width: 2080px; margin: 0 auto; padding: 0 clamp(20px, 4vw, 56px); display: flex; flex-wrap: wrap; align-items: flex-end; justify-content: space-between; gap: 20px">
 <div style="display: flex; flex-direction: column; gap: 6px">
